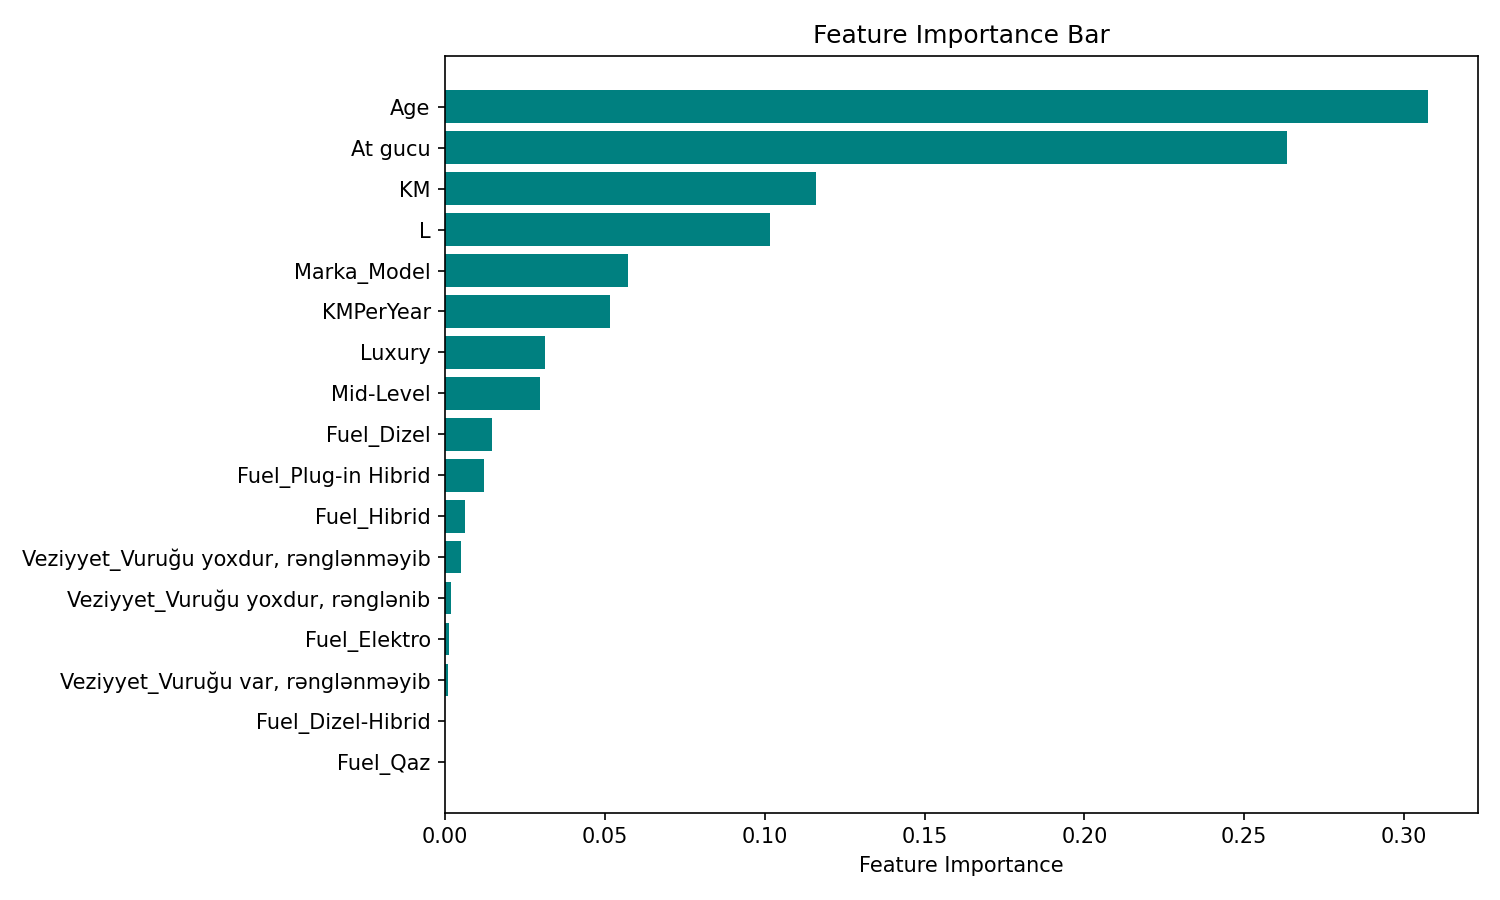
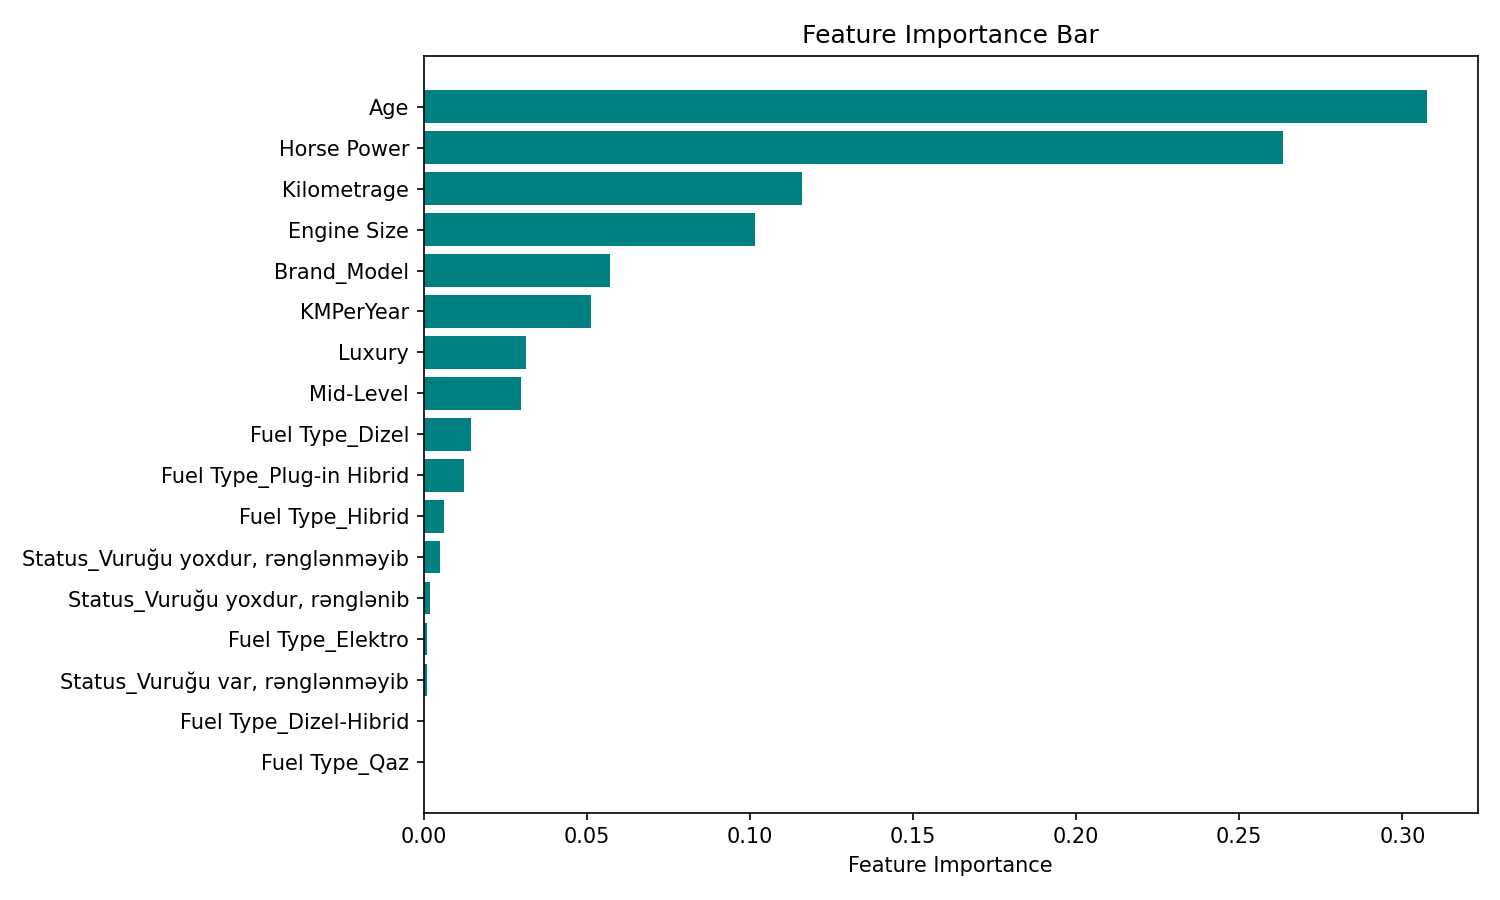
Translated data columns

diff --git a/src/preprocessing.py b/src/preprocessing.py
@@ -11,21 +11,21 @@ except FileNotFoundError:
     model_brand_le = LabelEncoder()
 
 def prepare_data(data: DataFrame) -> DataFrame:
-    data['Il'] = data['Il'].astype(dtype=int)
-    data['At gucu'] = data['At gucu'].str.replace(' a.g.', '', regex=False)
-    data['At gucu'] = pd.to_numeric(data['At gucu'], errors='coerce').astype('Int64')
-    data['KM'] = data['KM'].str.replace(r' km| ', '', regex=True)
-    data['KM'] = data['KM'].astype(dtype=int)
-    data['L'] = data['L'].str.replace(' L', '', regex=False)
-    data['L'] = data['L'].fillna("0")
-    data['L'] = data['L'].apply(lambda x: float(x.replace(' sm3', ''))/1000 if " sm3" in x else x).astype(float)
-    if 'Qiymet' in data.columns:
+    data['Year'] = data['Year'].astype(dtype=int)
+    data['Horse Power'] = data['Horse Power'].str.replace(' a.g.', '', regex=False)
+    data['Horse Power'] = pd.to_numeric(data['Horse Power'], errors='coerce').astype('Int64')
+    data['Kilometrage'] = data['Kilometrage'].str.replace(r' km| ', '', regex=True)
+    data['Kilometrage'] = data['Kilometrage'].astype(dtype=int)
+    data['Engine Size'] = data['Engine Size'].str.replace(' L', '', regex=False)
+    data['Engine Size'] = data['Engine Size'].fillna("0")
+    data['Engine Size'] = data['Engine Size'].apply(lambda x: float(x.replace(' sm3', ''))/1000 if " sm3" in x else x).astype(float)
+    if 'Price' in data.columns:
         data = data.dropna()
-        data['Qiymet'] = data['Qiymet'].str.replace(r' |₼|≈', '', regex=True)
-        data['Qiymet'] = data['Qiymet'].astype(dtype=int)
+        data['Price'] = data['Price'].str.replace(r' |₼|≈', '', regex=True)
+        data['Price'] = data['Price'].astype(dtype=int)
 
-        brand_counts = data['Marka'].value_counts()
-        data = data[data['Marka'].isin(brand_counts[brand_counts >= 30].index)]
+        brand_counts = data['Brand'].value_counts()
+        data = data[data['Brand'].isin(brand_counts[brand_counts >= 30].index)]
         model_counts = data['Model'].value_counts()
         data = data[data['Model'].isin(model_counts[model_counts >= 30].index)]
     luxury_brands = [
@@ -38,29 +38,29 @@ def prepare_data(data: DataFrame) -> DataFrame:
         'Chevrolet', 'Mitsubishi', 'Mazda', 'Skoda', 'Opel', 'Renault',
         'Peugeot', 'Jeep', 'Subaru', 'BYD', 'Changan', 'Haval', 'Geely', 'Chery'
     ]
-    data['Luxury'] = data['Marka'].isin(luxury_brands).astype(int)
-    data['Mid-Level'] = data['Marka'].isin(mid_level_brands).astype(int)
-    data = pd.get_dummies(data, columns=['Fuel', 'Veziyyet'], drop_first=True, dtype=int)
-    data['Marka_Model'] = data['Marka'] + '_' + data['Model']
-    if 'Qiymet' in data.columns:
-        joblib.dump(list(data['Marka_Model'].unique()), f'{dataPath}cars_list.pkl')
-        data['Marka_Model'] = model_brand_le.fit_transform(data['Marka_Model'])
+    data['Luxury'] = data['Brand'].isin(luxury_brands).astype(int)
+    data['Mid-Level'] = data['Brand'].isin(mid_level_brands).astype(int)
+    data = pd.get_dummies(data, columns=['Fuel Type', 'Status'], drop_first=True, dtype=int)
+    data['Brand_Model'] = data['Brand'] + '_' + data['Model']
+    if 'Price' in data.columns:
+        joblib.dump(list(data['Brand_Model'].unique()), f'{dataPath}cars_list.pkl')
+        data['Brand_Model'] = model_brand_le.fit_transform(data['Brand_Model'])
         joblib.dump(model_brand_le, f'{dataPath}label_encoder.pkl')
     else:
-        data['Marka_Model'] = model_brand_le.transform(data['Marka_Model'])
-    data['Age'] = 2026 - data['Il']
-    data['KMPerYear'] = data['KM'] / (data['Age'] + 1)
-    data = data.drop(columns=['Marka','Model','Il'])
-    if 'Qiymet' not in data.columns:
-        training_columns = ['L', 'At gucu', 'KM', 'Qiymet', 'Luxury', 'Mid-Level', 'Fuel_Dizel',
-       'Fuel_Dizel-Hibrid', 'Fuel_Elektro', 'Fuel_Hibrid',
-       'Fuel_Plug-in Hibrid', 'Fuel_Qaz', 'Veziyyet_Vuruğu var, rənglənməyib',
-       'Veziyyet_Vuruğu yoxdur, rənglənib',
-       'Veziyyet_Vuruğu yoxdur, rənglənməyib', 'Marka_Model', 'Age',
+        data['Brand_Model'] = model_brand_le.transform(data['Brand_Model'])
+    data['Age'] = 2026 - data['Year']
+    data['KMPerYear'] = data['Kilometrage'] / (data['Age'] + 1)
+    data = data.drop(columns=['Brand','Model','Year'])
+    if 'Price' not in data.columns:
+        training_columns = ['Engine Size', 'Horse Power', 'Kilometrage', 'Price', 'Luxury', 'Mid-Level', 'Fuel Type_Dizel',
+       'Fuel Type_Dizel-Hibrid', 'Fuel Type_Elektro', 'Fuel Type_Hibrid',
+       'Fuel Type_Plug-in Hibrid', 'Fuel Type_Qaz', 'Status_Vuruğu var, rənglənməyib',
+       'Status_Vuruğu yoxdur, rənglənib',
+       'Status_Vuruğu yoxdur, rənglənməyib', 'Brand_Model', 'Age',
        'KMPerYear']
         for col in training_columns:
             if col not in data.columns:
                 data[col] = 0
         data = data[training_columns]
-        data = data.drop(columns=['Qiymet'])
+        data = data.drop(columns=['Price'])
     return data

diff --git a/src/scraper.py b/src/scraper.py
@@ -109,7 +109,7 @@ def get_brand_ids():
     return brands
 
 def extract_data(brand_id=-1, delay=5, filename='data'):
-    data = pd.read_csv(f'{dataPath}{filename}.csv').values.tolist()
+    data = []
     output = None
     if brand_id != -1:
         max_page=get_final_page(brand_id)
@@ -119,7 +119,7 @@ def extract_data(brand_id=-1, delay=5, filename='data'):
             for c in cars:
                 data.append(get_product_info(c))
                 time.sleep(delay)
-            output = pd.DataFrame(data, columns=['Marka', 'Model', 'Il', 'L', 'At gucu', 'Fuel', 'KM', 'Veziyyet', 'Qiymet'])
+            output = pd.DataFrame(data, columns=['Brand', 'Model', 'Year', 'Engine Size', 'Horse Power', 'Fuel Type', 'Kilometrage', 'Status', 'Price'])
             output.to_csv(f'{dataPath}{filename}.csv', index=False)
         return output
     else:
@@ -132,7 +132,6 @@ def extract_data(brand_id=-1, delay=5, filename='data'):
                 for c in cars:
                     data.append(get_product_info(c))
                     time.sleep(delay)
-                output = pd.DataFrame(data, columns=['Marka', 'Model', 'Il', 'L', 'At gucu', 'Fuel', 'KM', 'Veziyyet','Qiymet'])
+                output = pd.DataFrame(data, columns=['Brand', 'Model', 'Year', 'Engine Size', 'Horse Power', 'Fuel Type', 'Kilometrage', 'Status', 'Price'])
                 output.to_csv(f'{dataPath}{filename}.csv', index=False)
         return output
-

diff --git a/src/predict.py b/src/predict.py
@@ -21,7 +21,7 @@ models = {'xgb': model_xgb, 'rf': model_rf}
 def predict(model_name, car_list_data):
     if model_name not in models:
         raise HTTPException(404, detail='Model not found')
-    car = DataFrame([x.model_dump().values() for x in car_list_data], columns=['Marka', 'Model', 'Il', 'L', 'At gucu', 'Fuel', 'KM', 'Veziyyet'])
+    car = DataFrame([x.model_dump().values() for x in car_list_data], columns=['Brand', 'Model', 'Year', 'Engine Size', 'Horse Power', 'Fuel Type', 'Kilometrage', 'Status'])
     processed_data = preprocessing.prepare_data(car)
     model = models.get(model_name)
     predicted_values = model.predict(processed_data.to_numpy())

diff --git a/src/train.py b/src/train.py
@@ -17,8 +17,8 @@ plotsPath = str(Path(__file__).resolve().parent.parent) + '\\plots\\'
 
 data = prepare_data(pd.read_csv(f'{dataPath}data.csv'))
 
-price = data['Qiymet']
-features = data.drop(columns=['Qiymet'])
+price = data['Price']
+features = data.drop(columns=['Price'])
 
 #Price Distribution Visualization
 plt.hist(price, bins=30,color='blue',edgecolor='black',alpha=0.7)

diff --git a/src/app.py b/src/app.py
@@ -9,9 +9,9 @@ class Car(BaseModel):
     brand: str
     model: str
     year: int
-    l: str
+    engine_size: str
     hp: str
-    fuel: str
+    fuel_type: str
     km: str
     status: str
 
